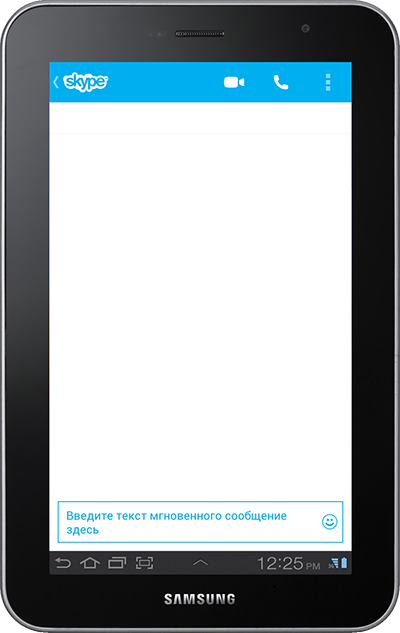
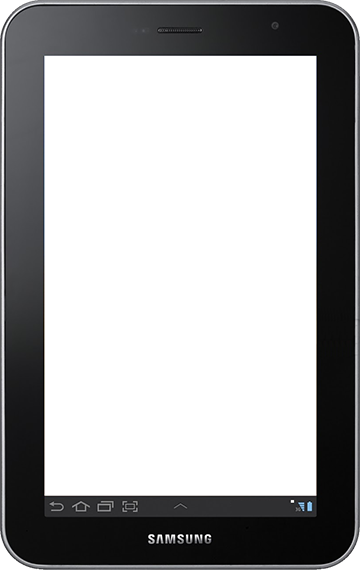
no coments

diff --git a/src/main/webapp/css/chat.css b/src/main/webapp/css/chat.css
@@ -1,26 +1,24 @@
 #chat {
-	background-image: url('../images/tab.png');
+	background-image: url('../images/chat.png');
 	background-repeat: no-repeat;
-	height: 633px;
-	width: 400px;
+	height: 439px;
+	width: 271px;
 	font-family: Tahoma;
 	position: absolute;
-	margin: 0px 150px;
-	z-index: 1;
+	margin: 56px 45px;
 }
 
 #chatOutText {
-	border: 1px solid red;
 	overflow-y: scroll;
 	overflow-x: hidden;
-	height: 390px;
-	width: 300px;
+	height: 350px;
+	width: 271px;
 	position: absolute;
-	margin: 100px 50px;
+	margin: 36px 0px;
 }
 
 #chatTable {
-	width: 300px;
+	width: 254px;
 }
 
 tr.collor td {
@@ -37,14 +35,14 @@ tr.collor td {
 }
 
 .msg {
-	width: 300px;
+	width: 254spx;
 }
 
 #chatInText {
-	border: inherit;
+	border: none;
 	background: initial;
-	height: 40px;
-	width: 285px;
+	height: 35px;
+	width: 255px;
 	position: absolute;
-	margin: 501px 58px;
+	margin: 395px 8px;
 }

diff --git a/src/main/webapp/css/personal.css b/src/main/webapp/css/personal.css
@@ -1,0 +1,22 @@
+#personal {
+	overflow: auto;
+	height: 439px;
+	width: 271px;
+	font-family: Tahoma;
+	position: absolute;
+	margin: 56px 45px;
+	cursor: pointer;
+	
+	-webkit-touch-callout: none;
+    -webkit-user-select: none;
+     -khtml-user-select: none;
+       -moz-user-select: none;
+        -ms-user-select: none;
+         -o-user-select: none;
+            user-select: none;
+}
+
+#personalTable {
+	width: 271px;
+	margin: 0px 0px;
+}

diff --git a/src/main/webapp/css/tab.css b/src/main/webapp/css/tab.css
@@ -1,0 +1,10 @@
+#tab {
+	background-image: url('../images/tab.png');
+	background-repeat: no-repeat;
+	height: 570px;
+	width: 360px;
+	font-family: Tahoma;
+	position: absolute;
+	margin: 0px 150px;
+	z-index: 1;
+}
